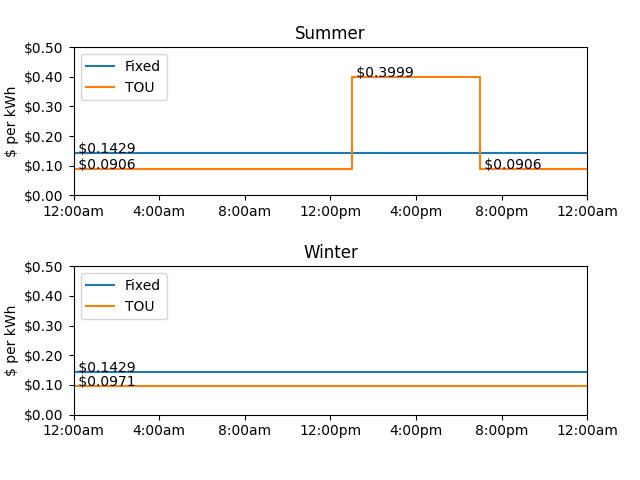
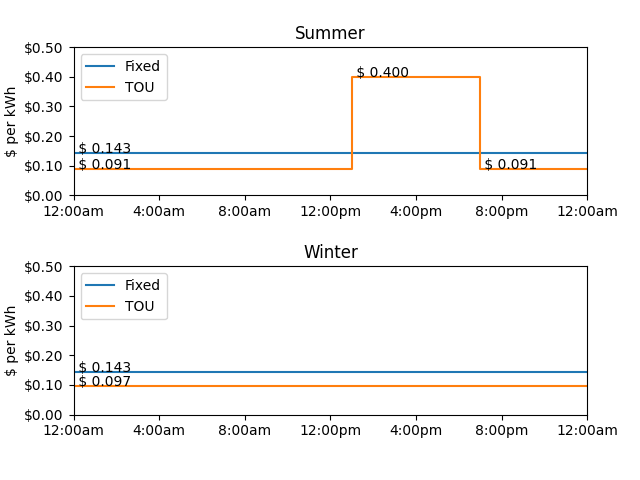
add maryland chart
Need to fix seasons!

diff --git a/Post1_Nevada.py b/Post1_Nevada.py
@@ -44,12 +44,12 @@ def display_state_charts(state: str, td: TimesData, rd: RatesData):
             if(season == "Summer" or season == "All"):
                 summer_axes.step(x, y, where = "post", label = plan)
                 for a,b in zip(x,y):
-                    if(a<24): summer_axes.annotate(f" ${b}", (a,b))
+                    if(a<24): summer_axes.annotate(f" ${b: 1.3f}", (a,b))
                     
-            if(season == "Winter" or season == "All"):
+            if(season == "Winter" or season == "Non-Summer" or season == "All"):
                 winter_axes.step(x, y, where = "post", label = plan)
                 for a,b in zip(x,y):
-                    if(a<24): winter_axes.annotate(f" ${b}", (a,b))
+                    if(a<24): winter_axes.annotate(f" ${b: 1.3f}", (a,b))
 
 
     summer_axes.legend(loc = 'upper left')
@@ -61,7 +61,7 @@ def display_state_charts(state: str, td: TimesData, rd: RatesData):
 if __name__ == "__main__":
     rd = RatesData()
     td = TimesData()
-    states = ["NV", "CT"]
+    states = ["NV", "CT", "MD"]
     for state in states:
         display_state_charts(state, td, rd)
 

diff --git a/rate_series.py b/rate_series.py
@@ -5,6 +5,8 @@ from dataclasses import dataclass
 from fetch_rates import RatesData
 from fetch_times import TimesData
 
+import pdb
+
 @dataclass(frozen = True)
 class RateSegment:
     start_time: int
@@ -17,11 +19,16 @@ class RateSegment:
 
 class RateSeries:
     def _add_segments(self):
+#        pdb.set_trace()
         segs = []
+        print(self.state, self.plan_type, self.season)
         rate_dict = self.rd.rate_dictionary(self.state, self.plan_name, self.season)
+        print(rate_dict)
         periods = self.td.time_period_list(self.state, self.plan_type, self.season)
+        print(periods)
         if(len(periods) == 0): periods.append("All")
         for period in periods:
+            print(period)
             segments = self.td.time_segments_for_period(self.state, self.plan_type, self.season, period)
             for segment in segments:
                 seg = RateSegment(segment[0], segment[1], rate_dict[period], period)
